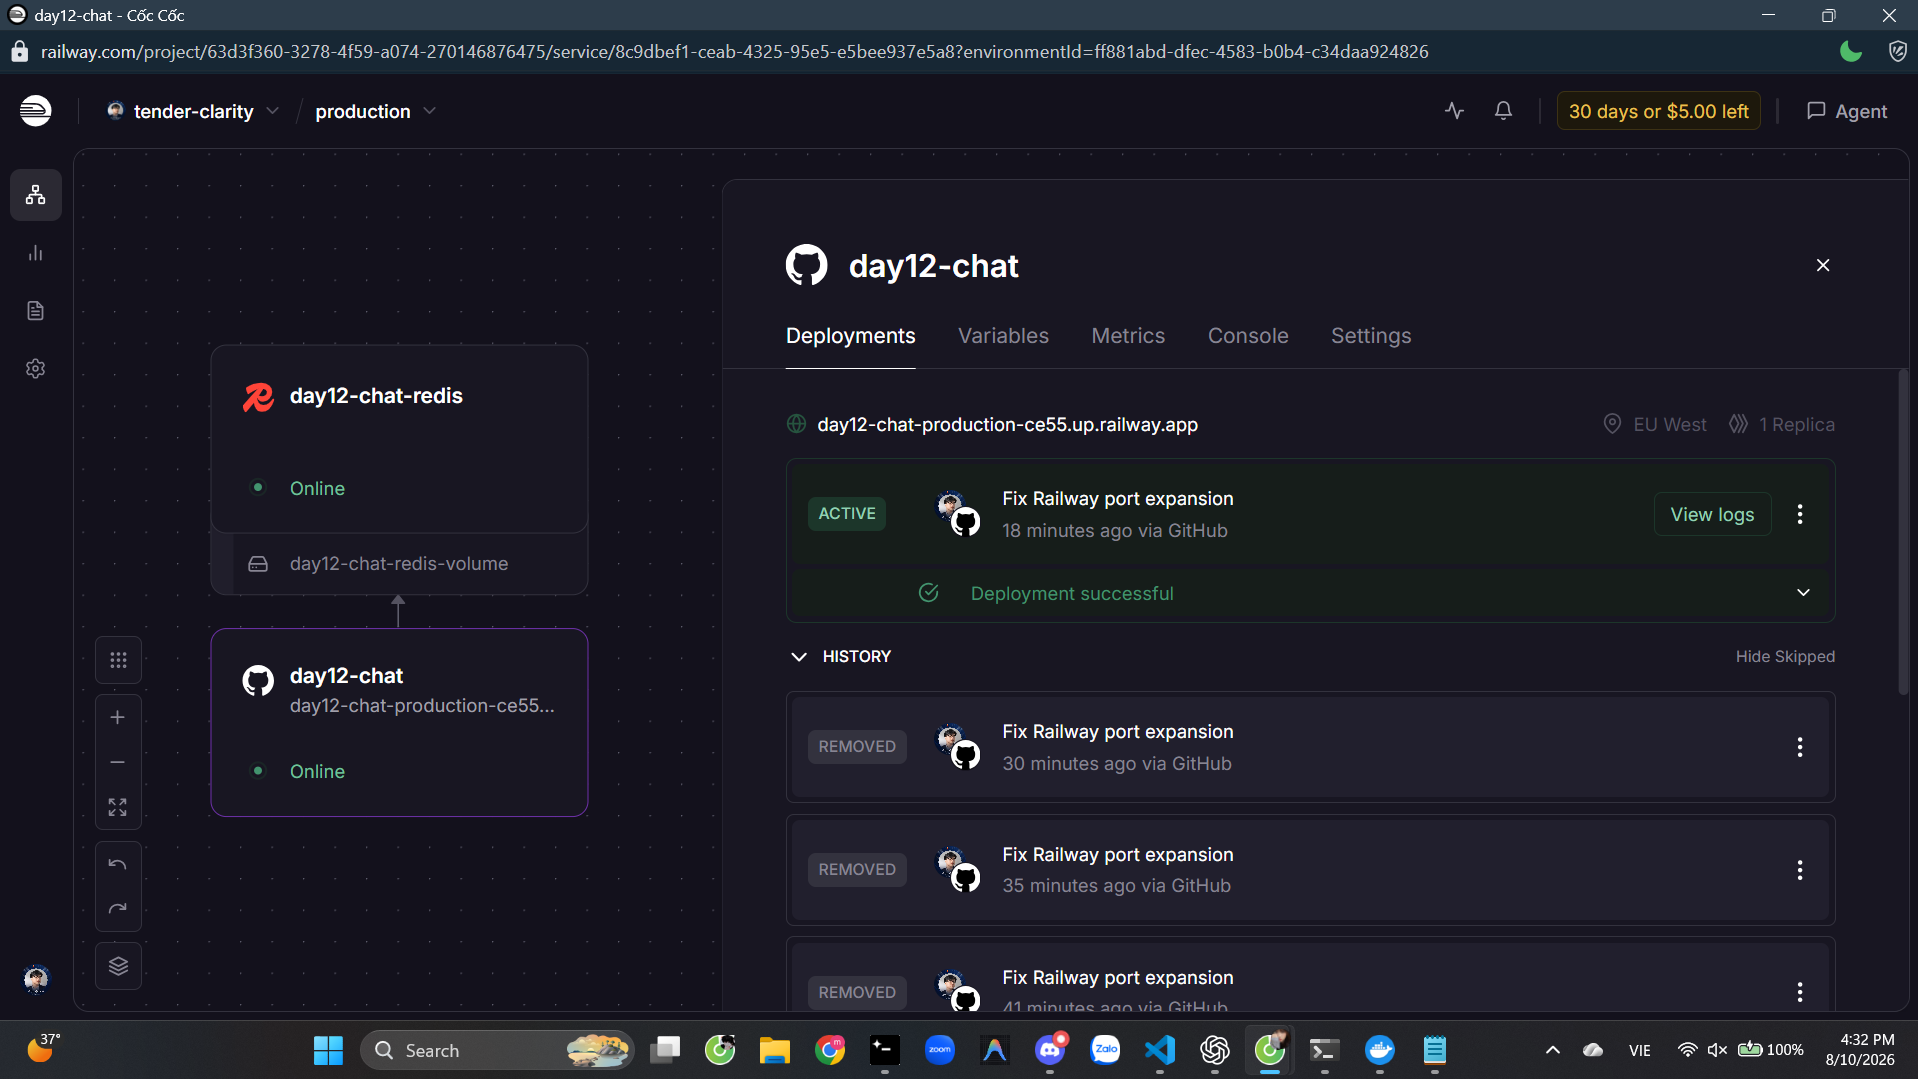
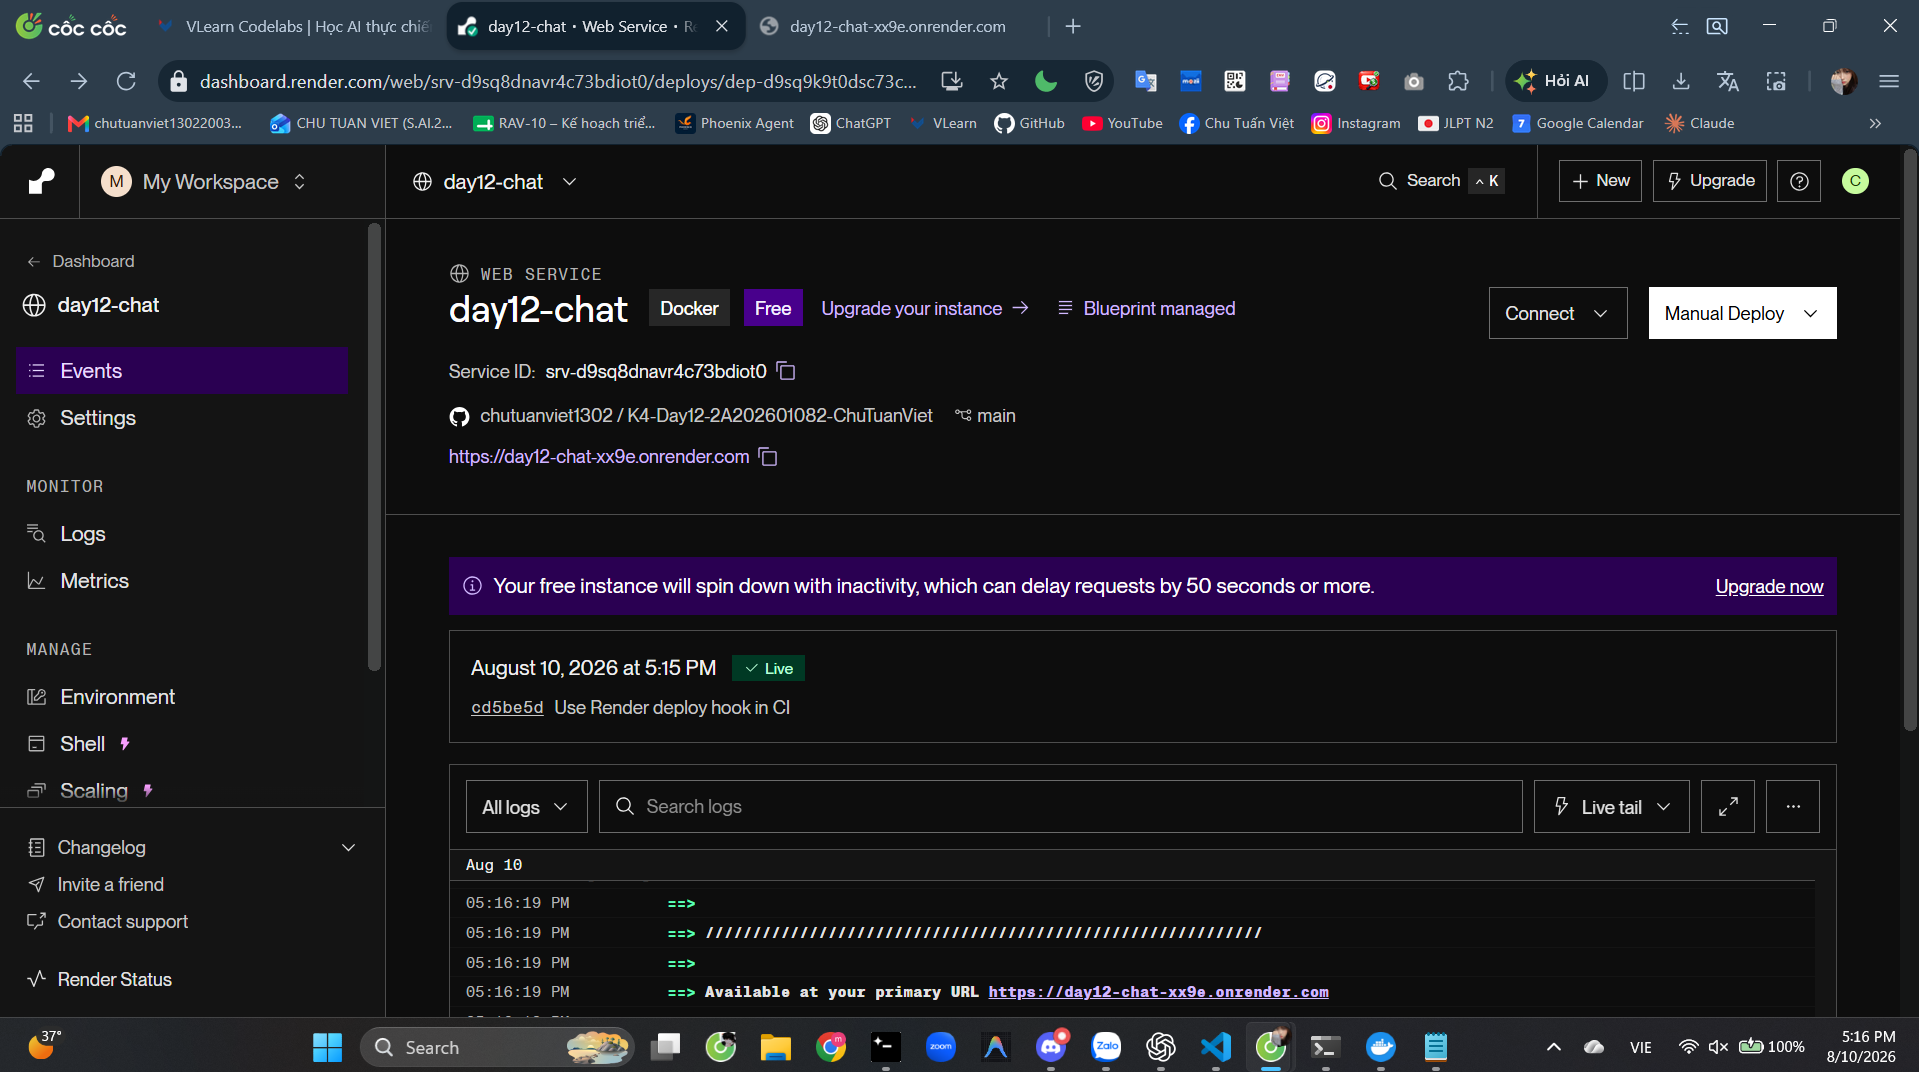
Update deployment evidence for Render

diff --git a/DEPLOYMENT.md b/DEPLOYMENT.md
@@ -18,8 +18,8 @@
 
 | Mục | Nội dung |
 |-----|----------|
-| Public URL | https://day12-chat-production-ce55.up.railway.app |
-| Platform | Railway |
+| Public URL | https://day12-chat-xx9e.onrender.com |
+| Platform | Render |
 | Ngày deploy | 10/08/2026 |
 
 ## Biến Môi Trường Đã Set Trên Cloud
@@ -30,7 +30,7 @@ Ghi tên biến và **nguồn giá trị**, không ghi giá trị:
 |------|--------|---------|
 | `PORT` | ✅ | platform tự gán |
 | `API_TOKEN` | ✅ | đặt trong dashboard, không nằm trong repo |
-| `REDIS_URL` | ✅ | Redis add-on của Railway (tự sinh khi `railway add --database redis`) |
+| `REDIS_URL` | ✅ | Redis Key Value add-on của Render |
 | `BUCKET_CAPACITY` | ✅ | 10 |
 | `REFILL_PER_MINUTE` | ✅ | 10 |
 | `DAILY_BUDGET_USD` | ✅ | 1.0 |
